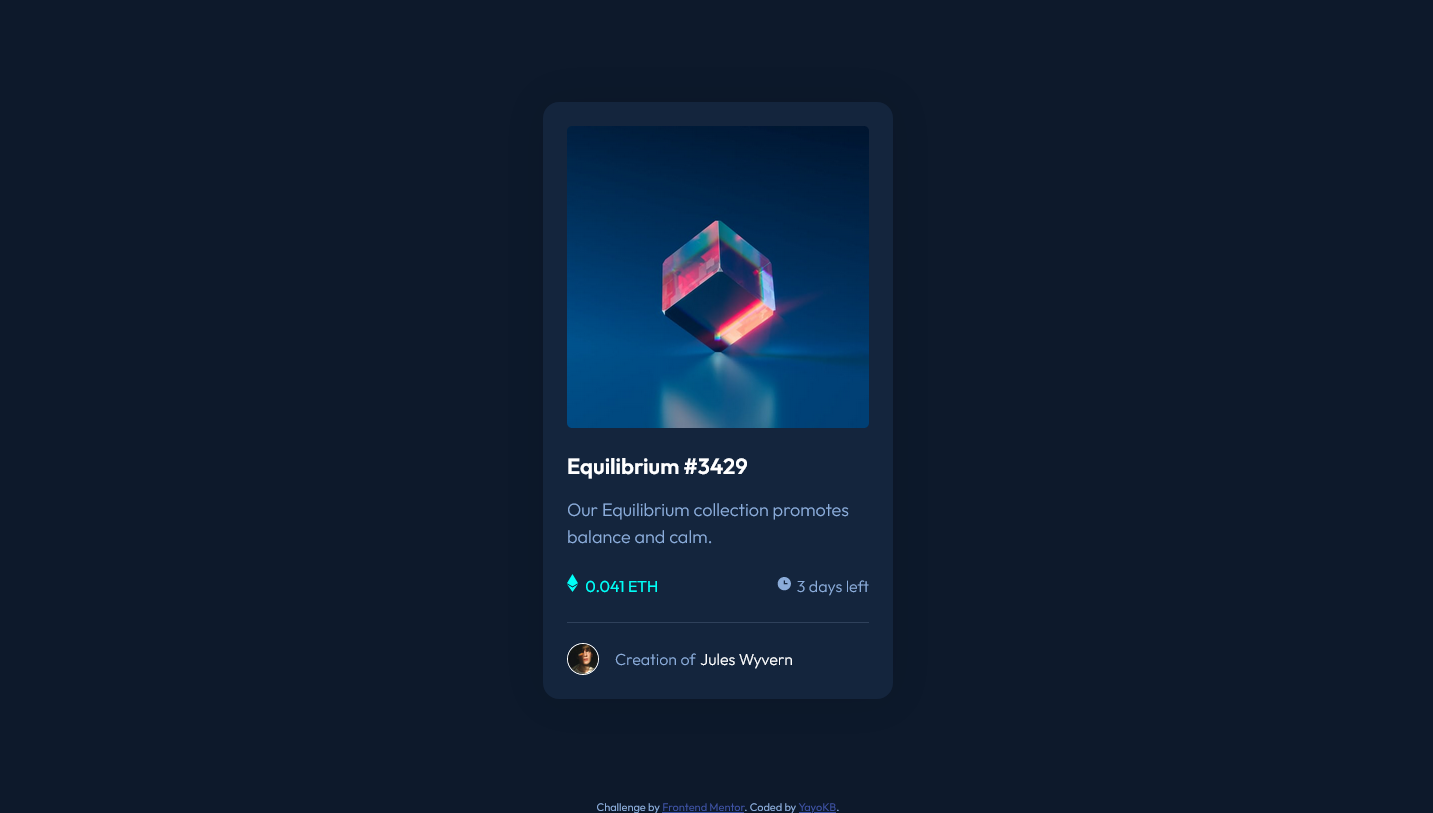
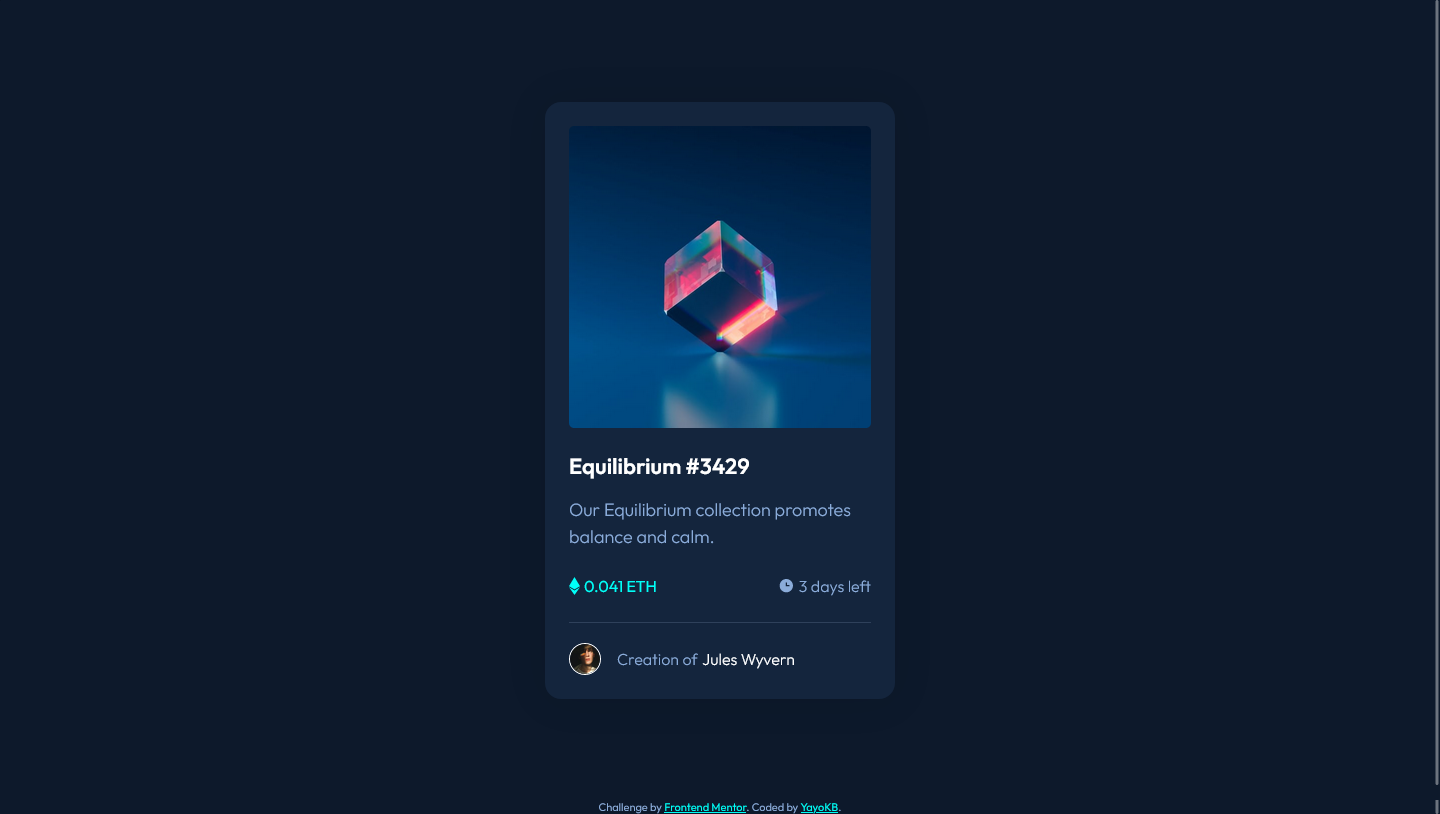
time and price set to flex

diff --git a/style.css b/style.css
@@ -112,12 +112,16 @@ p {
   color: var(--cyan);
   font-size: 1rem;
   font-weight: 400;
+  display: flex;
+  align-items: center;
 }
 
 .time {
   color: var(--soft-blue);
   font-size: 1rem;
   font-weight: 300;
+  display: flex;
+  align-items: center;
 }
 
 .time img,
